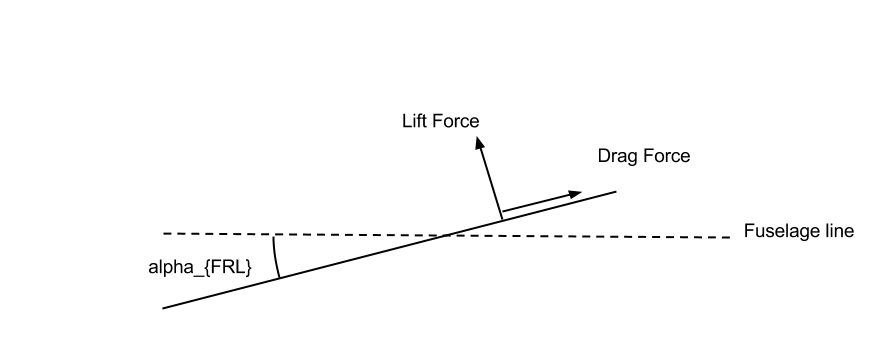
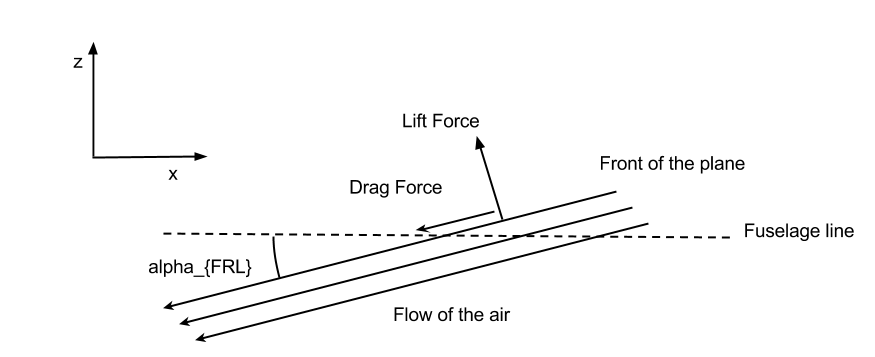
some edits

diff --git a/stability.tex b/stability.tex
@@ -11,44 +11,39 @@
 
 Because of the low Reynold number of paper airplane aerodynamics, we have to worry about
 the persistance of the laminar boundary layer.
-The Reynold number of paper airplane flight is on the order of $10^4$.
 There is a big difference between turbulent flow and laminar boundary
 layers. Laminar boundary layer doesn't respond well to an increasing
 pressure gradient in the direction of flow, whereas turbulent flow does.
 However, turbulent flow results in large frictional effects and can result in stalling.
+This effect is illustrated in figure~\ref{fig:boundary_layer_transition}.
+
+\begin{figure}[hl]
+  \centering
+    \includegraphics[scale=.5]{figures/boundary_layer_transition.png}
+    \caption{This is the illustration of the transition from laminar to turbulent flow on the
+    surface of an airplane. This transition is important in the design of a plane flying in
+    Low Reynolds Number flow.}
+  \label{fig:boundary_layer_transition}
+\end{figure}
 
 One aspect of the laminar boundary layer is the location in which it separates from the surface.
-When the laminar boundary layer seperates from the surface, this results Kelvin
-Helmholtz instability, vortices, and finally a turbulent boundary layer. 
+This transition region has many stages. At the first stage, unstable two-dimensional Tollmien Schlichting
+waves are developed and start to move downstream. As it moves downstream, the waves become three directional
+and vortical structures are formed. Finally this leads to turbulent flow.
 Because of the instability this transition between turbulence and laminar flow 
-can cause, predicting this location is important in the stability of the flight. 
-
+can cause, predicting this location is important in the stability and other properties of the flight. 
 This transition location also results in hysterisis effects. Before separation
 occurs, increasing angle of attack will increase lift. But afterwards,
-decreasing the angle of attack does not return to the same lift. This effect is
-illustrated in figure~\ref{fig:boundary_layer_transition}.
-
-The transition location is characterized as a separation bubble when the laminar layer
-separates from the surface. After a short distance the turulent layer would reattach.
-At high Reynold numbers the transition region is very short, but for lower Reynold
-numbers, this distance could be long and the turbulent layer might not have the chance
-to reattach. 
+decreasing the angle of attack does not return to the same lift. 
 
 One effect of laminar vs turbulence is the skin friction. When the flow is turbulent there
 is a lot more skin friction then when it is laminar. The other side of it is, 
 in terms of lift, maximum
 lift depends on the characteristics of the turbulent boundary layer, because the
 turbulent layer has the ability to recover pressure at the
-rear of the airfoil. 
+rear of the airfoil.
 
-\begin{figure}[hl]
-  \centering
-    \includegraphics[scale=.5]{figures/boundary_layer_transition.png}
-    \caption{Illustration of the boundary layer process}
-  \label{fig:boundary_layer_transition}
-\end{figure}
-
-
+Here are some Reynold number regimes for different boundary layers ~\cite{mueller}.
 
 \begin{enumerate}
 \item For Reynold numbers between 1000 and 10000 the boundary layer flow is laminar
@@ -63,6 +58,7 @@ it can separate. When it separates it does not reattach.
 \subsection{Lateral Stability}
 
 \subsubsection{Dihedral vs Anhedral}
+\label{sec:dihedral}
 
 Dihedral and anhedral refer to the angle between the wings and the horizontal plane.
 Dihedral wings means that the wings point upwards, and the anhedral wings means the wings point
@@ -82,7 +78,7 @@ banked, this results in a rolling moment, called the dihedral effect. If the
 rolling moment opposes the bank, the dihedral effect is positive. In order for
 there to be stability, the dihedral effect needs to be positive. There are many
 different factors that can contribute to the dihedral effect: the shape of the wings,
-the wing placement, tail height, etc. 
+the wing placement, tail height, etc. We will analyze the angle of the wings in this paper.
 
 To analyze this effect in more detail we will show that a dihedral aircraft has 
 a positive dihedral effect. When the aircraft is banked we see that there is a net force
@@ -99,12 +95,21 @@ contribute to the dihedral effect yet.
 \end{figure}
 
 At this point, with respect to the plane's frame of reference, there is air flowing 
-to the side that will contribute to a dihedral effect. However, we see that for the
-corresponding anhedral plane, the bottom wing would be affected more by the air, causing
-a negative dihedral effect (Figure~\ref{fig:dihedral2}). If the bank angle is $\phi$ and
+to the side that will contribute to a dihedral effect. 
+If the bank angle is $\phi$ and
 the angle that the wings make with the horizontal is $\theta$ then after factoring in
 the banked angle, the right wing has an angle of attack of  $\theta - \phi$.
 The left wing has an angle of attack $- \theta - \phi$.
+From our discussions of models of wings of airplane, we can say that the
+coefficient of lift is approximately $\beta \sin(\alpha 0 \alpha_o)$.
+$\alpha$ is the angle of attack and $\beta$ is a constant. To test the stability of the plane
+let us assume that $|\phi| < |\theta|$.
+So if we assume that $theta$ is positive , so that the airplane is dihedral.
+So the left wing will experience a downward force because of a negative angle of attack
+and the right wing will experience an upwards force because of a positive angle of attack, straightning the plane out.
+However, if $theta$ is negative, and the plane is anhedral, the right wing will experience a
+downwards force, and the left wing will experience an upwards force, increasing its lateral moment
+(Figure~\ref{fig:dihedral2}). 
 
 
 \begin{figure}[hl]
@@ -114,18 +119,13 @@ The left wing has an angle of attack $- \theta - \phi$.
   \label{fig:dihedral2}
 \end{figure}
 
-If we assume that the wings are approximate flat plates, we can say that the
-coefficient of lift is approximately $2\pi\sin(\alpha)$ as shown in Equation~\ref{flat_plate_cl}. 
-$\alpha$ is
-the angle of attack and $\beta$ is a constant. For small angles it is 
-approximately $2\pi(\alpha)$. So the left wing will exerience a downward force
-and the right wing will experience an upwards force, straightning the plane out.
 
 \subsection{Longitudinal Stability}
+\label{sec:long_stability}
 
 \subsubsection{Aerodynamic Center}
 
-The Aerodynamic Center is the location where the pitching moment doesn't
+The Aerodynamic Center is the location on the plane where the pitching moment doesn't
 change with the angle of attack. 
 
 In order to calculate it first we will show how to 
@@ -133,7 +133,8 @@ find moments at different locations given one moment.
 Let us say we know the moment of the plane, $M_{ref}$ at some
 location $x_{ref}$. Also, as an approximation, we can also say that the upwards force
 is the lift and the horizontal force is the drag. We would like to find the moment
-at some $x_{new}$, $M_{new}$. Let us assume that the z dimension does not contribute.
+at some $x_{new}$, $M_{new}$. Let us assume that the z dimension does not contribute to the
+calculations because the airplane is pretty  is thin.
 
 \[M_{ref} = -(x_{new} - x_{ref})L + M{new} \] 
 
@@ -156,7 +157,7 @@ Therefore we can solve for $x_ac$ and we obtain:
 
 \[\frac{x_{ac} - x_{ref}}{c} = \frac{x_{ref}}{c} - (\od{C_{M_{ref}}}{C_L})\]
 
-Therefore, if we know the moment at one point, we can figure out the derivative 
+Therefore, if we know the moment at one point, and we can figure out the derivative 
 $\od{C_{M_{ref}}}{C_L}$. It has been found theoretically that this moment
 occurs at a quarter of a chord back from the leading edge on most airfoils ~\cite{NASAac}.
 
@@ -182,7 +183,7 @@ we can conclude that the condition is:
 
 To figure out the moment of the plane we start by figuring out the moment of the wings.
 There are only two forces on the wings, the lift force and the drag force. Let us say
-that the angle of attack is $\alpha_{FRL}$ to the plane as shown in the picture below 
+that the angle between the air flow and the airplane is $\alpha_{FRL}$ to the plane as shown in the picture below 
 FIgure~\ref{fig:longitudinal_stability1}.
 
 \begin{figure}[hl]
@@ -194,23 +195,25 @@ FIgure~\ref{fig:longitudinal_stability1}.
 
 From the formula from the previous section, we see that 
 
-\[M_{cg}  = (L\cos(\alpha_{FRL}) + D\sin(\alpha_{FRL}))(x_{cg} - x_{ac}) + M_{ac}\]
+\[M_{cg}  = -(L\cos(\alpha_{FRL}) + D\sin(\alpha_{FRL}))(x_{cg} - x_{ac}) + M_{ac}\]
 
 Again we will assume that the z component does not contribute. Then we change it into
 coefficient form once more and use a small angle approximation.
 
-\[ C_{M_{cg}} = (C_{L} + C_D \alpha_{FRL}) (\frac{x_{cg}}{c} - \frac{x_{ac}}{c}) + C_{M_{ac}} \]
+\[ C_{M_{cg}} = -(C_{L} + C_D \alpha_{FRL}) (\frac{x_{cg}}{c} - \frac{x_{ac}}{c}) + C_{M_{ac}} \]
 
 Because $\alpha_{FRL}$ is small we can approximate $C_{M_{cg}}$ as
 
-\[C_L (\frac{x_{cg}}{c} - \frac{x_{ac}}{c}) + C_{M_{ac}} \]
+\[-C_L (\frac{x_{cg}}{c} - \frac{x_{ac}}{c}) + C_{M_{ac}} \]
 
 Because the aerodynamic center has no dependence on $\alpha_{FRL}$ we can rewrite the
 stabiltiy equation as:
 
-\[\od{C_{M_{cg}}}{C_L} = \frac{x_{cg}}{c} - \frac{x_{ac}}{c} < 0\]
+\[\od{C_{M_{cg}}}{C_L} = - \frac{x_{cg}}{c} + \frac{x_{ac}}{c} < 0\]
 
-Therefore, the further back from the aerodynamic center the center of gravity is, the
-more stable it is.
+Therefore, the bigger $x_{cg}$ is the more stable the plane is. By our choice of coordinate system,
+this means that the center of mass of the plane has to be in front of the aerodynamic center for it to have
+longitudinal stability.
+
               
 

diff --git a/model.tex b/model.tex
@@ -6,15 +6,15 @@ the chord is small. Commertial aircrafts typically have high aspect ratio wings
 to increase the amount of lift on the aircraft, but there are benefits of having
 low aspect wings. Low aspect ratio aircrafts need to deal with less bending
 stress because the wings are shorter. Also, the drag due to surface friction is
-smaller because of the lower Reynold number because of the bigger lengthscale.
+smaller because of the lower Reynold number from the bigger lengthscale.
 For paper airplanes, low aspect ratio wings are definitely better than high
-aspect ratio wings because there is no way for paper to overcome the
+aspect ratio wings because paper can't overcome the
 bending stress.
 
 
 \subsection{Previous Research}
 
-A lot of research about the lift and drag  were done in the form of
+A lot of research about the lift and drag of wings with low aspect ratios  were done in the form of
 micro-air vechicle research. This has the most relevance with paper airplanes because
 micro-air vehicles operate on a Reynold number regime similar to paper airplanes. 
 In 1999, Mueller showed that cambered plates offer better performance than flat plate wings, and
@@ -24,7 +24,8 @@ find the lift and drag coefficient of different wing shapes of different aspect 
 
 \subsection{Flat Plate model}
 
-One way to model the wings is as a infinite flat plate. Since it is
+One way to model the wings is as a flat plane that is infinite in length. This corresonds to
+an aspect ratio of zero. Since it is
 an infinite flat plate, we can analyze it with a complex potential in two dimensions.
 By means of conformal mapping, we can collapse a cylinder to a flat plate by
 
@@ -45,7 +46,7 @@ After the conformal transformation, we see that the velocity now becomes
 - \frac{i \Gamma}{2\pi z}}{1 - \frac{a^2}{z^2}}\]
 
 In order to choose $\Gamma$ we must use the fact that the singularity at the trailing edge, 
-$Z=2a$ or $z=a$ must be removed, from the condition. This condition occurs because 
+$Z=2a$ or $z=a$ must be removed, from the Kutta condition. This condition occurs because 
 a boundary layer prevents the flow from turning the sharp corner at the trailing edge.
 The physical solution from complex flow theory depends on frictional forces.
 
@@ -61,20 +62,22 @@ This allows us to find the lift by the Kutta-Joukowski theorem.
 C_L = 2\pi sin(\alpha)
 \end{equation}
 
-
 \subsection{Bollay Models}
 
 The problem with the flat plate in the previous chapter is that it had to assume 
-an aspect ratio of about zero in order to model it in that fasion. However, we can still
-use the fact that the aspect ratio is small the model it in a different fashion.
+an aspect ratio of about zero in order to model it in that fashion. However, we can still
+use the fact that the aspect ratio is small the model it in a similar fashion.
 Let us assume that the wing is thin and has a low aspect ratio. Let the angle of attack
- be $\alpha$. We can see that the normal component of the air
-will have velocity. This is depicted in Figure~\ref{fig:bollay1}
+ be $\alpha$ and the velocity of the flow relative to the wing be $v$. 
+ We can see that the normal component of the air
+will have velocity $V\sin(\theta)$. Because the aspect ratio is low
+we can model the flow around the wing like the flat plate model above.
+This is depicted in Figure~\ref{fig:bollay1}
 
 \begin{figure}[hl]
   \centering
     \includegraphics[scale=1]{figures/bollay1.png}
-    \caption{normal component of air}
+    \caption{normal component of air. Figure adapted from~\cite{bollay}}
   \label{fig:bollay1}
 \end{figure}
 
@@ -88,10 +91,11 @@ If the angle is small enough this is approximately
 
 It then follows that the lift force per unit length is just the normal velocity $V\alpha$ times the
 rate of increase of a virtual additional mass. The virtual additional mass comes from the
-added inertia from the fluid moving around the immersed object. For a thin line it is known
-that.
+added inertia from the fluid moving around the immersed object. From~\cite{jones} it is know that.
 
-\[dm=\frac{\pi}{4}\rho b^2 dx\]
+\begin{equation}
+dm=\frac{\pi}{4}\rho b^2 dx
+\end{equation}
 
 If $\rho$ is the density of the fluid and $b$ and $x$ are the dimensions of the plate.
 
@@ -101,16 +105,19 @@ If $\rho$ is the density of the fluid and $b$ and $x$ are the dimensions of the 
 
 \[l = \pi \alpha \frac{\rho}{2} V^2 b \dif{b} \]
 
-To get the entire lift force we can just integrate across the length of the chord. 
-If the wings are rectangular than the result is:
+To get the entire lift force we can just integrate across the width of the wake. 
 
 \[L = \frac{\pi \alpha \rho V^2 b_{max}}{4} \]
 
 This results in a lift coefficient $C_L$ of
 
-\[ \frac{\pi}{2} \AR \alpha \].
+\begin{equation}
+ \frac{\pi}{2} \AR \alpha 
+ \label{eq:bollay_model}
+ \end{equation}
 
-Where $\AR$ is the aspect ratio.
+Where $\AR$ is the aspect ratio. In the experiments section we will test whether or not the aspect ratio
+would actually affect the lift coefficient.
 
 
 

diff --git a/abstract.tex b/abstract.tex
@@ -11,7 +11,10 @@
 %% the abstract page will be generated by the abstractpage environment.  This
 %% file should be \input (not \include 'd) from cover.tex.
 In this paper we explored the validity of drag and lift formulas on 
-paper airplanes. We constructed paper airplanes of different sizes and geometries 
-and calculated their theoretical drag and lift. We then performed experiments to determine the time of flight in order to compare them to theoretical results.
-Lastly we conducted experiments to determine the stability of the paper airplanes as a function 
-of position of center of gravity and wing geometry.
+paper airplanes. We constructed paper airplanes of different sizes and geometries. 
+We then performed experiments to determine the time of flight in order to try to qualitatively 
+test theories about the drag, lift, and stability of paper airplanes.
+In the experiments, we found that moving the center of gravity towards the nose of the plane
+increases the stability of the plane. We also found that there is a positive correlation between
+the aspect ratio and the lift coefficient. In conclusion we found that the theories accomponaying
+traditional aerodynamics also apply to paper airplane flight.

diff --git a/main.tex b/main.tex
@@ -52,8 +52,8 @@ process all files:}
 \include{intro}
 \include{previous_research}
 \include{model}
-\include{experiments}
 \include{stability}
+\include{experiments}
 %\appendix
 %\include{appa}
 %\include{appb}
